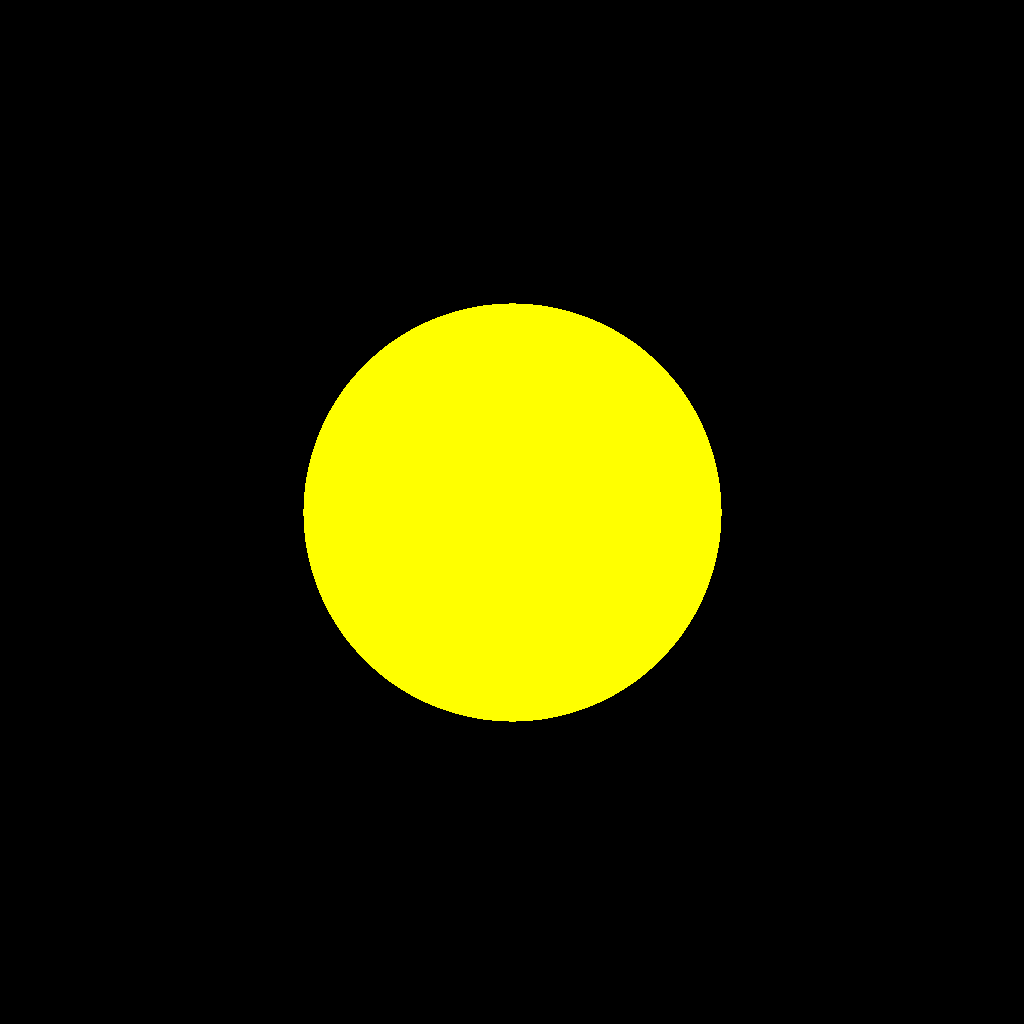
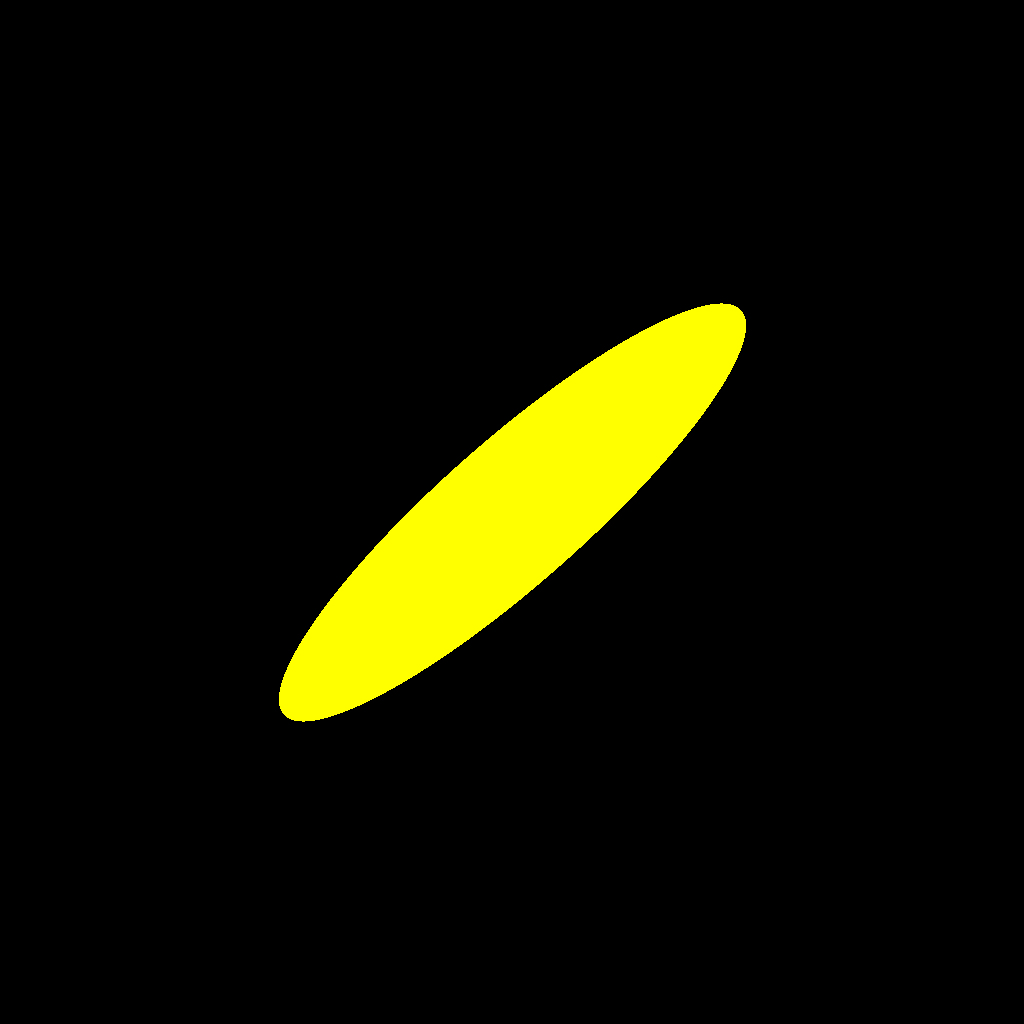
Make clippy happy

Changed region(s): [[0.25, 0.2812, 0.75, 0.7188]]

diff --git a/src/bin/chapter_05.rs b/src/bin/chapter_05.rs
@@ -1,4 +1,5 @@
 use ray_tracer_challenge::canvas::*;
+use ray_tracer_challenge::matrix::Matrix;
 use ray_tracer_challenge::ray::*;
 use ray_tracer_challenge::sphere::*;
 use ray_tracer_challenge::tuple::*;
@@ -20,7 +21,8 @@ fn main() {
 
   let mut canvas = Canvas::new(canvas_size, canvas_size);
 
-  let sphere = Sphere::default();
+  let mut sphere = Sphere::default();
+  sphere.set_transform(Matrix::shearing(1.0, 0.0, 0.0, 0.0, 0.0, 0.0) * Matrix::scaling(0.5, 1.0, 1.0));
 
   println!("Raytracing {} pixels. Please be patient...", canvas_size.pow(2));
 

diff --git a/src/canvas.rs b/src/canvas.rs
@@ -29,10 +29,6 @@ impl Canvas {
         y * self.width + x
     }
 
-    fn pixels(&self) -> &Vec<Color> {
-        &self.pixels
-    }
-
     fn pixels_as_rgba32(&self) -> Vec<u8> {
         self.pixels.iter().flat_map(|c| c.to_rgba32()).collect()
     }

diff --git a/src/matrix.rs b/src/matrix.rs
@@ -104,7 +104,7 @@ impl<const D: usize> FuzzyEq<Self> for Matrix<D> {
             }
         }
 
-        return true;
+        true
     }
 
     fn fuzzy_ne(&self, other: Self) -> bool {
